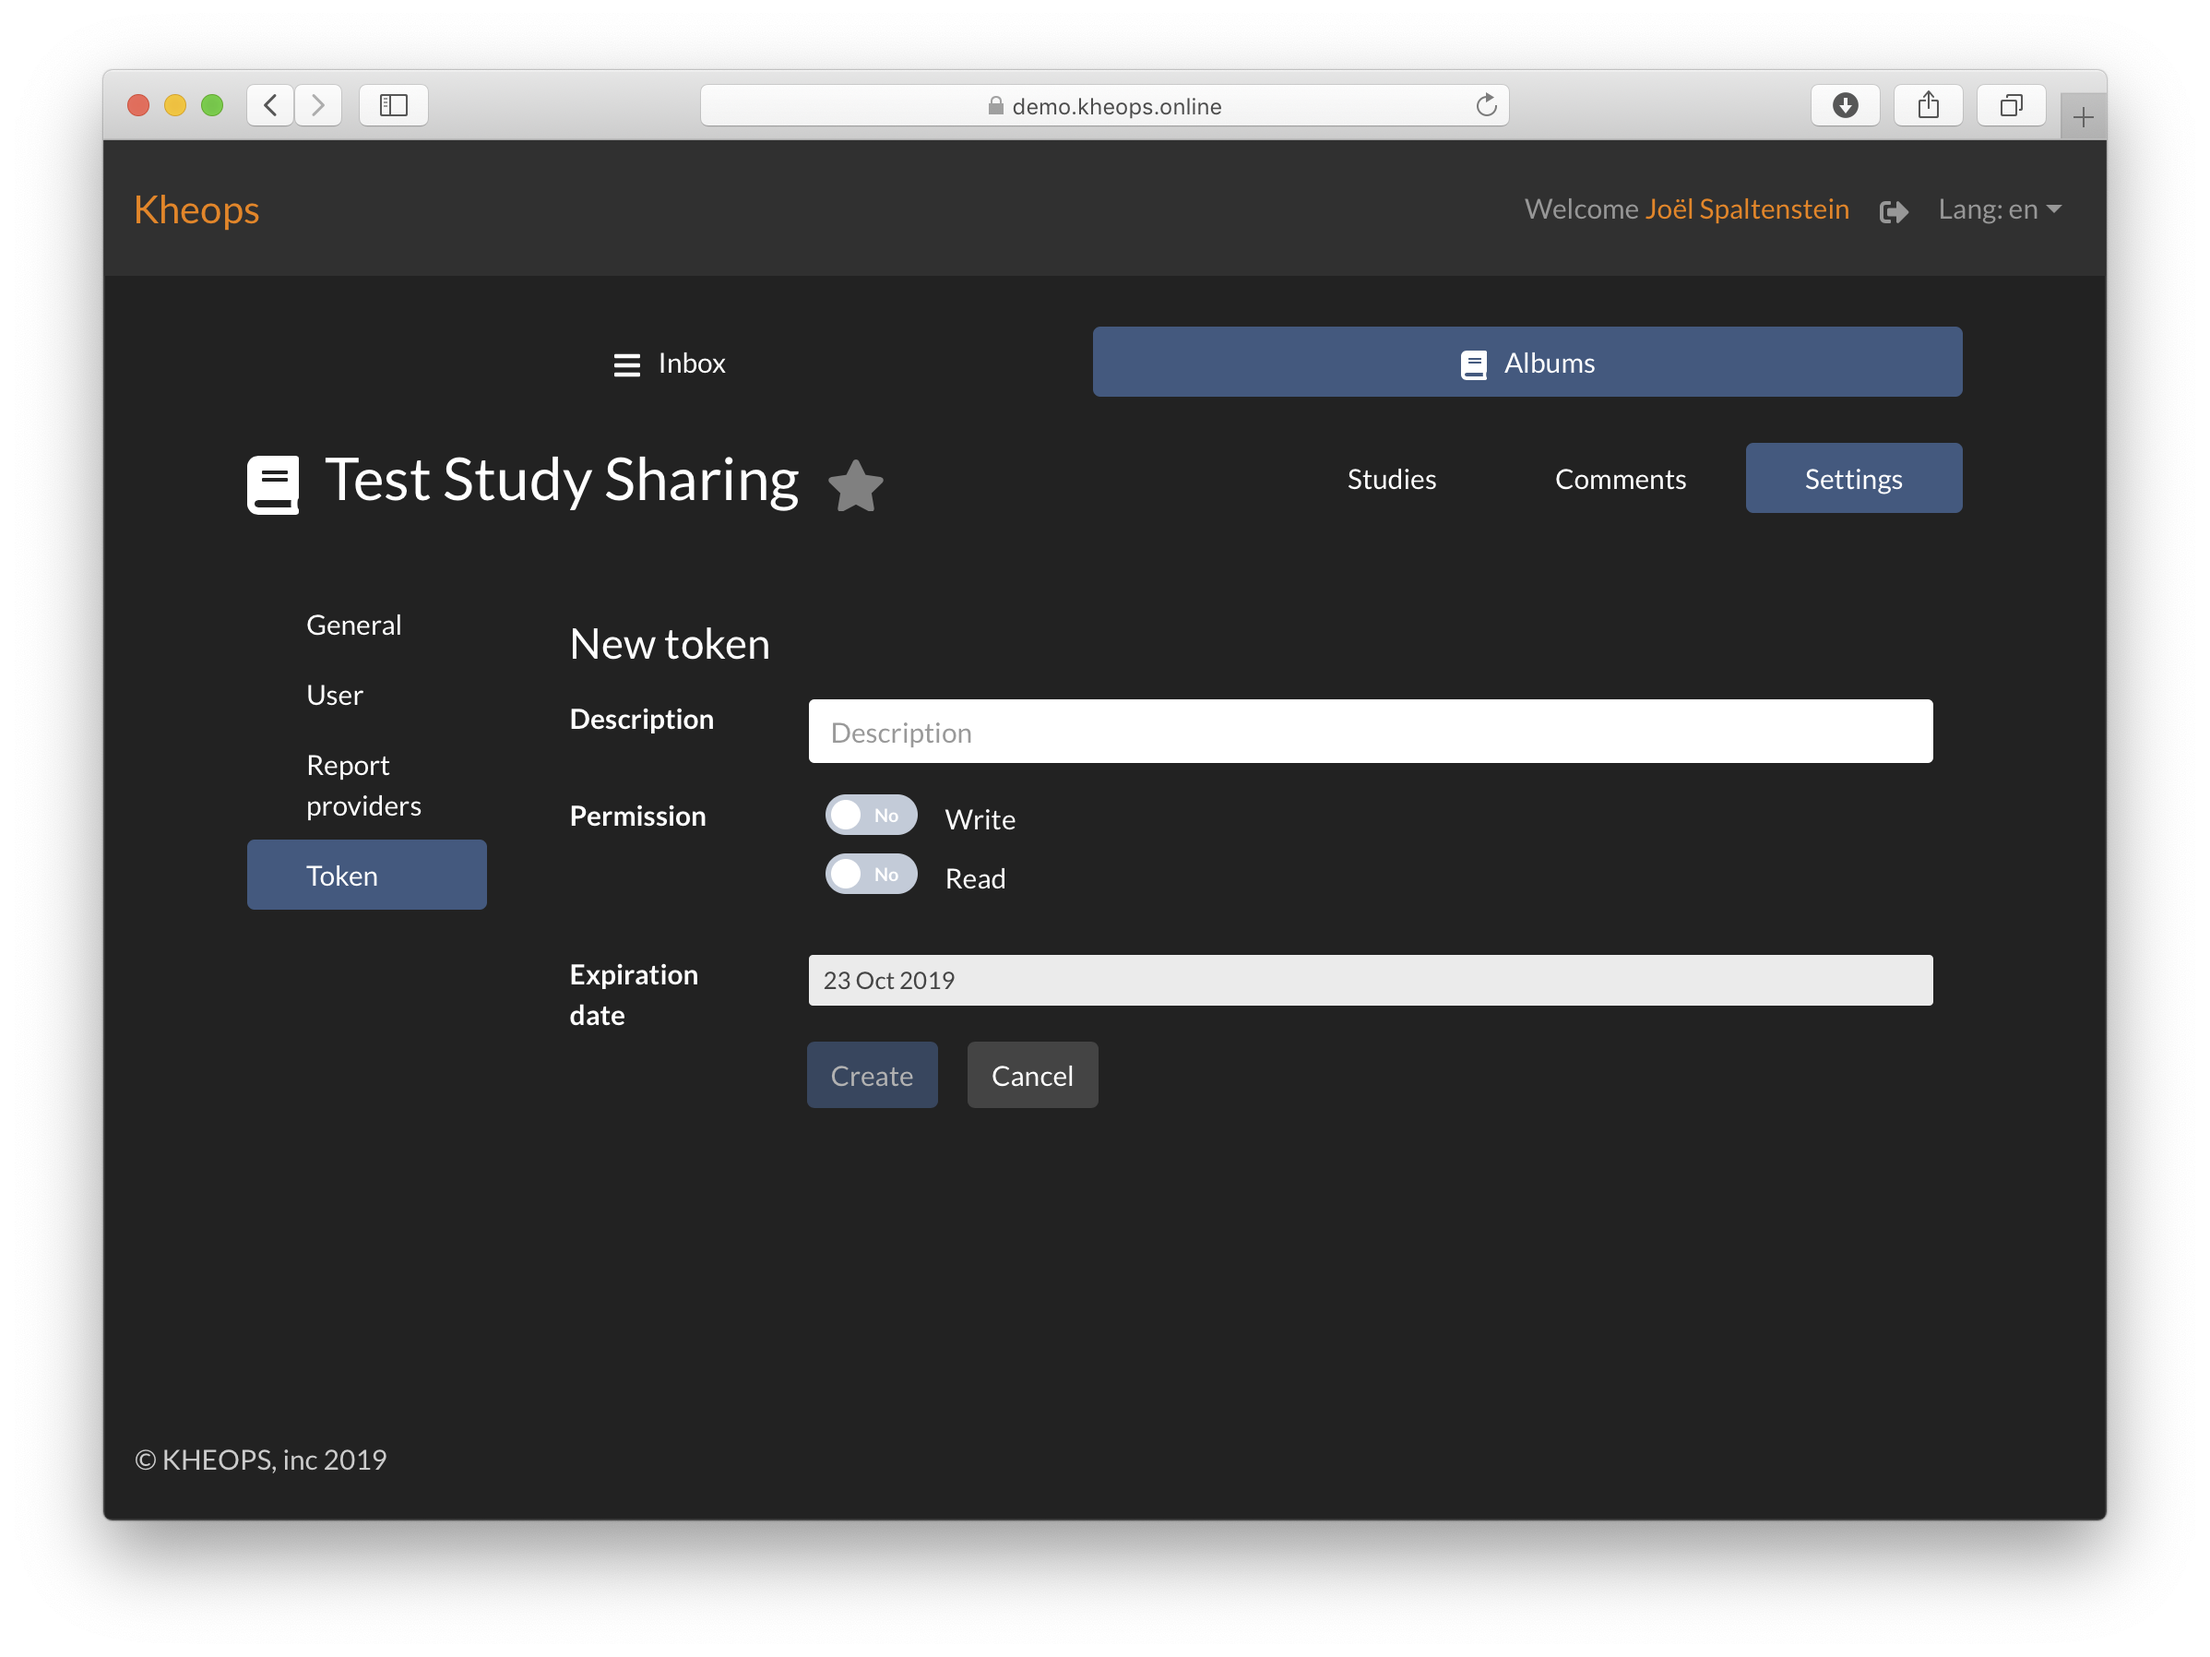
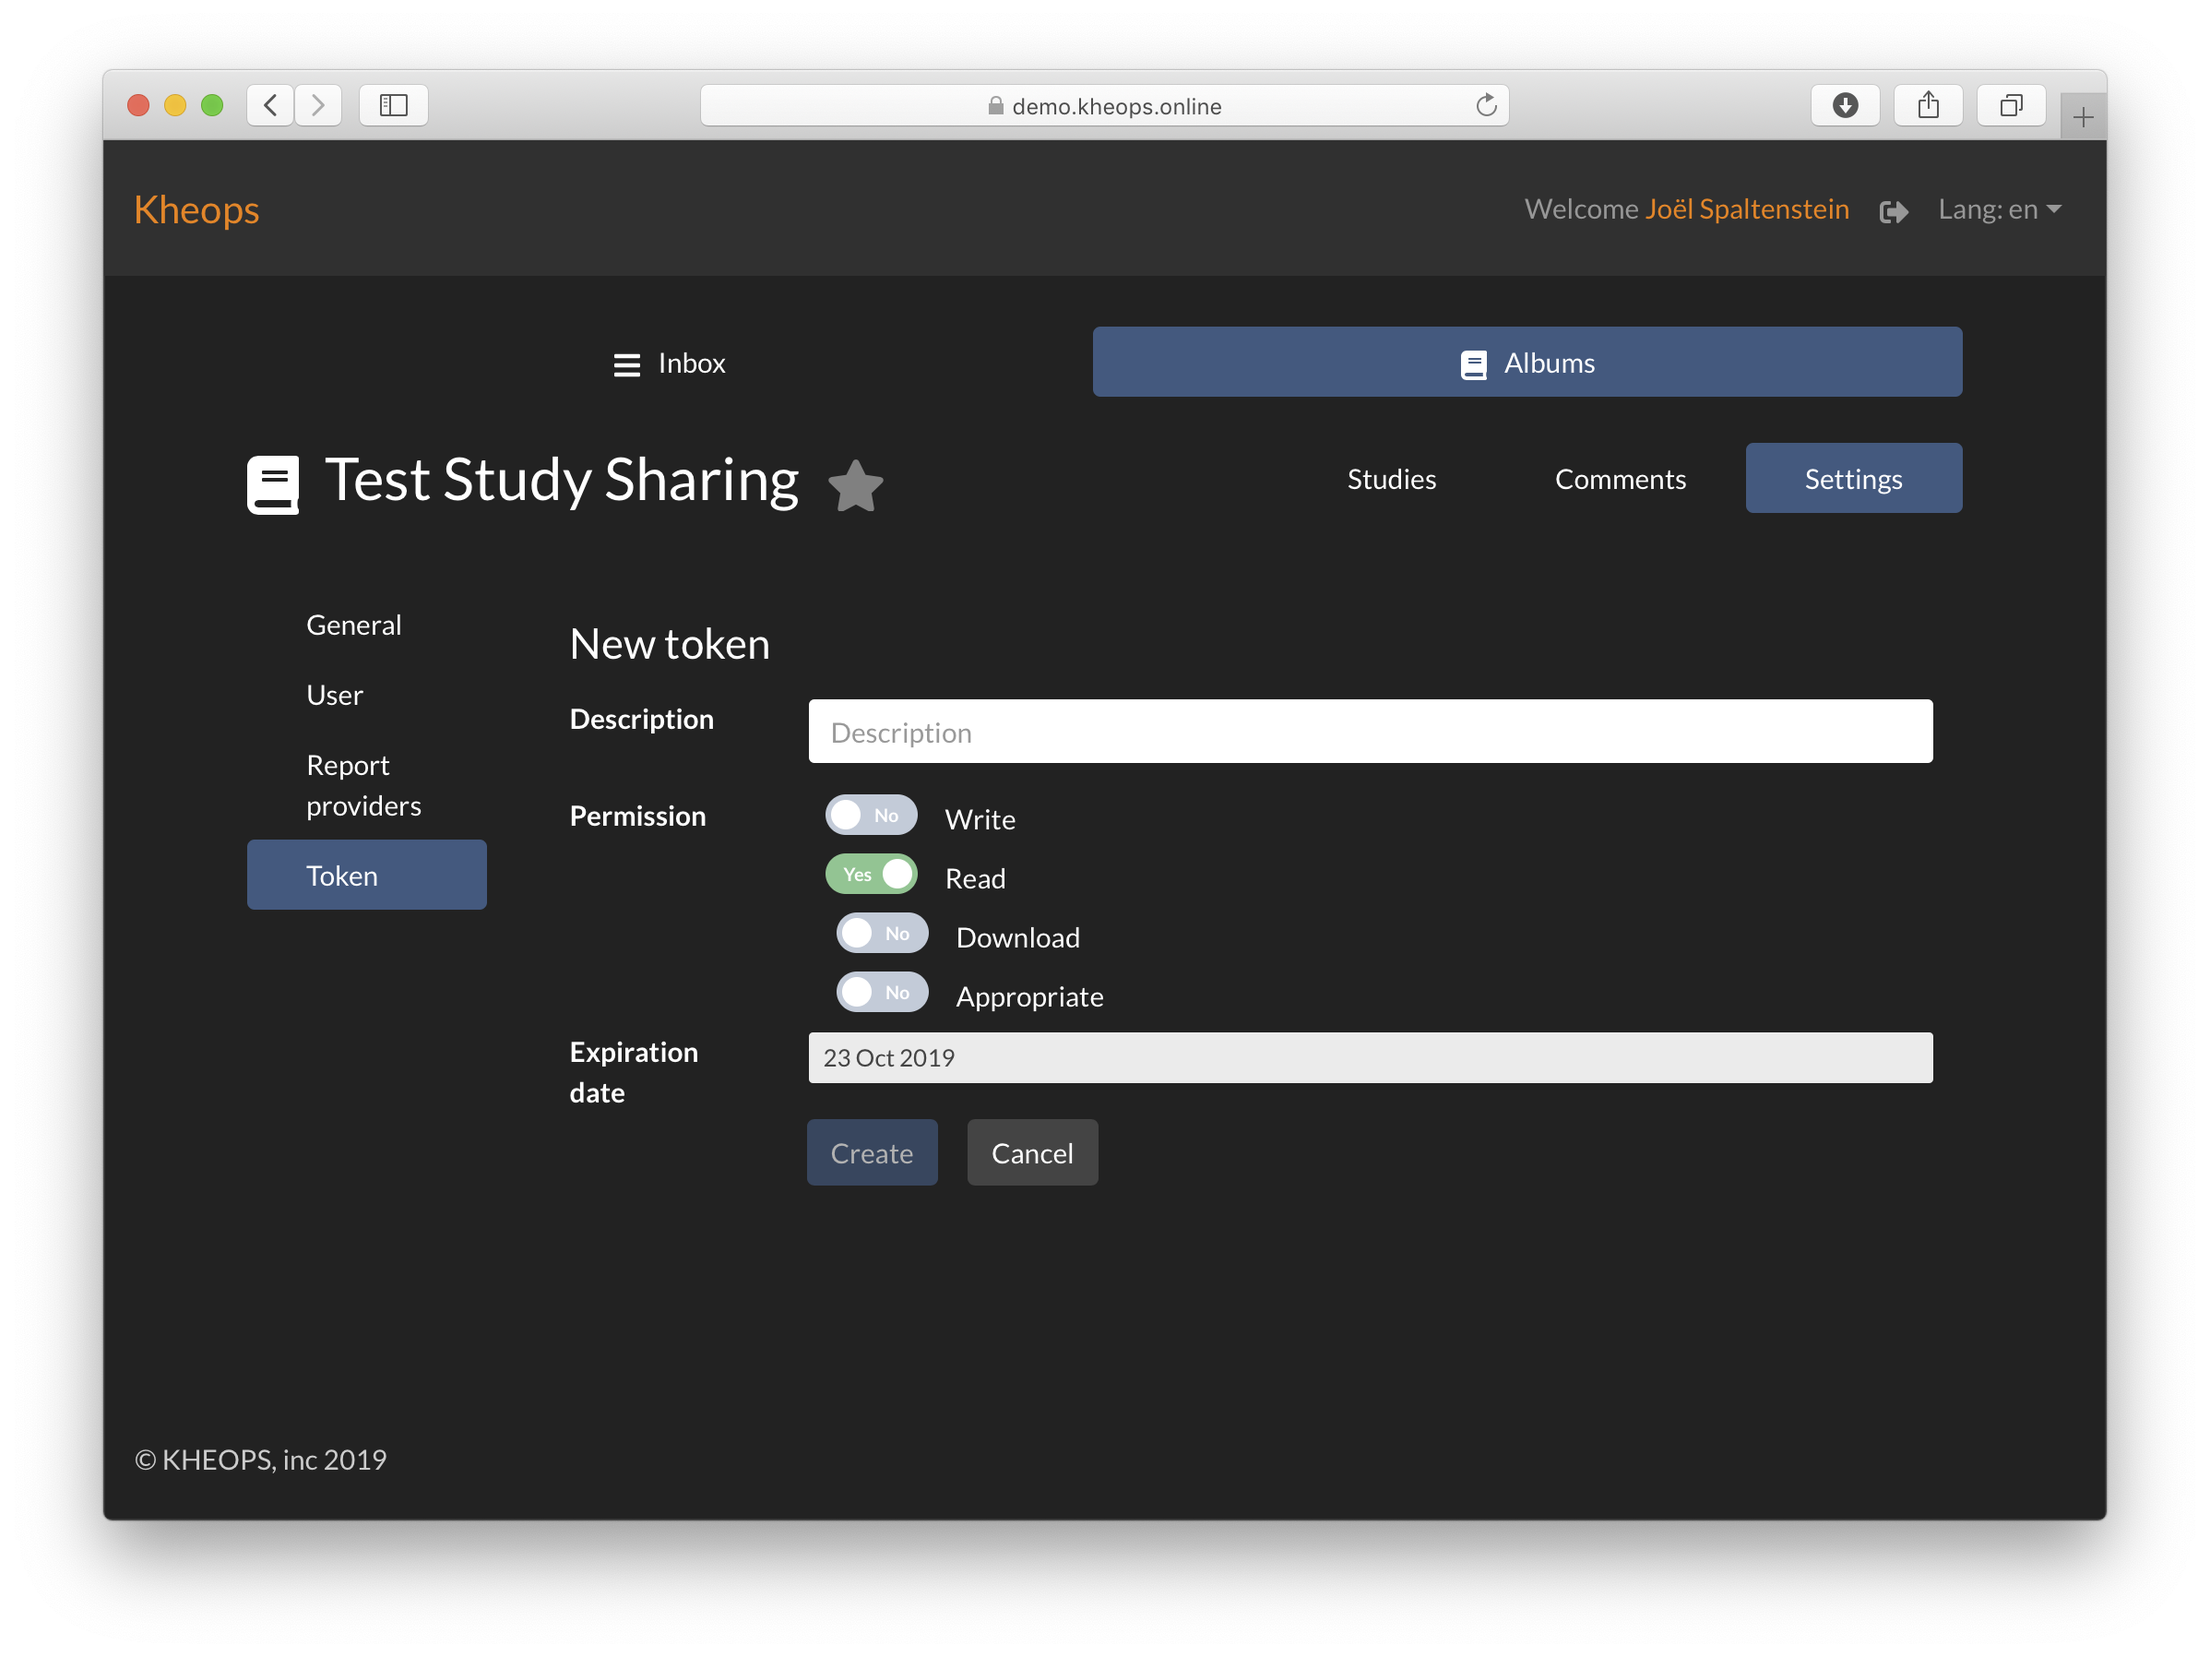
token work

Changed region(s): [[0.3397, 0.4989, 0.8957, 0.7171], [0.2471, 0.5924, 0.3088, 0.686], [0.278, 0.5612, 0.3088, 0.5924]]

diff --git a/docs/tokens/tokens.md b/docs/tokens/tokens.md
@@ -10,12 +10,51 @@ permalink: /docs/tokens
 
 Kheops Tokens provide a mechanism to give temporary access to Kheops resources.
 
-Tokens are OAuth 2.0 Access Tokens that allow a user to access the Kheops API server without authenticating through the Keycloak Authorization Server. 
+Two classes of tokens exist, *Album* tokens, and *User* tokens. Album tokens give access to a specific Kheops album. User tokens give full access to a User's account. When both Album, and User tokens are generated an expiration date must be specified. The token will no longer function once the expiration date passes. Both token types can also be revoked once they are no longer needed or if the token has been compromised.
 
 ## Album Tokens
 
-Album tokens 
+Album Tokens give access to a specific album. They are designed to be used give a third-party application access to an album. When a third party application uses the token to authenticate with the Kheops DICOMweb endpoint, the album will appear as the content of a DICOMweb PACS to the thrid-party application. For more technical information see using tokens with [cURL](/docs/tokens/curl)
 
+In order to create a new token:
+* Open an album.
+* Click on the *Settings* button on the top right.
+* Click on the *Token* button on the left.
+* Click on *+ New Token*.
+
+![New Token Button](/img/click_new_album_token.png)
+
+When creating a new token, the following information must be provided:
+* Description: A name of the token.
+* Permissions:
+  - Write: Can the token be used to add DICOM instances to the album.
+  - Read: Can the token be used to read DICOM data from the album.
+  - Show Download Button: If the token is used in a graphical interface, should the download button be displayed.
+  - Add to Album / Inbox: Can series from the album be sent to other albums or to token bearer's inbox.
+* Expiration date: The date at which the token will expire.
+
+Once the above information has been filled out, click on *Create* to create the new token.
+
+![New Album Token](/img/new_album_token.png)
+
+The new token is displayed once it has been generated. Make sure to copy and securely store the token. It will not be possible to view the token again later.
+
+![New Token](/img/new_token.png)
 
 ## User Tokens
 
+User tokens give full user access to the Kheops platform. They are intended to be used by application that need to perform actions on Kheops in the name of the user. User tokens are OAuth2.0 Access tokens that can be used with Bearer Authorization when calling the [Kheops APIs](https://github.com/OsiriX-Foundation/KheopsAuthorization/wiki).
+
+In order to create a user token:
+* Click on the User Settings Link at the top of the page.
+  ![Click User Settings](/img/click_user_settings.png)
+* Click on *Token* on the left.
+* Click on *+ New token*.
+  ![Click New User Token](/img/click_new_user_token.png)
+
+When creating a new token, the following information must be provided:
+* Description: A name of the token.
+* Scope: Choose *User* for a user token. It is also possible to generate new album tokens from the *User Settings* token panel.
+* Expiration date: The date at which the token will expire.
+
+  ![New User Token](/img/new_user_token.png)

diff --git a/index.md b/index.md
@@ -23,5 +23,5 @@ Create customized online workflows centered around DICOM studies.
 
 Kheops is a platform built to facilitate sharing of data in research settings.
 
-![Landing Page](img/landing_page.png)
+![Landing Page](/img/landing_page.png)
 

diff --git a/docs/tokens/curl.md b/docs/tokens/curl.md
@@ -6,3 +6,5 @@ nav_order: 2
 ---
 
 # cURL
+
+Tokens are OAuth 2.0 Access Tokens that allow a user to access the Kheops API server without authenticating through the Keycloak Authorization Server. 
